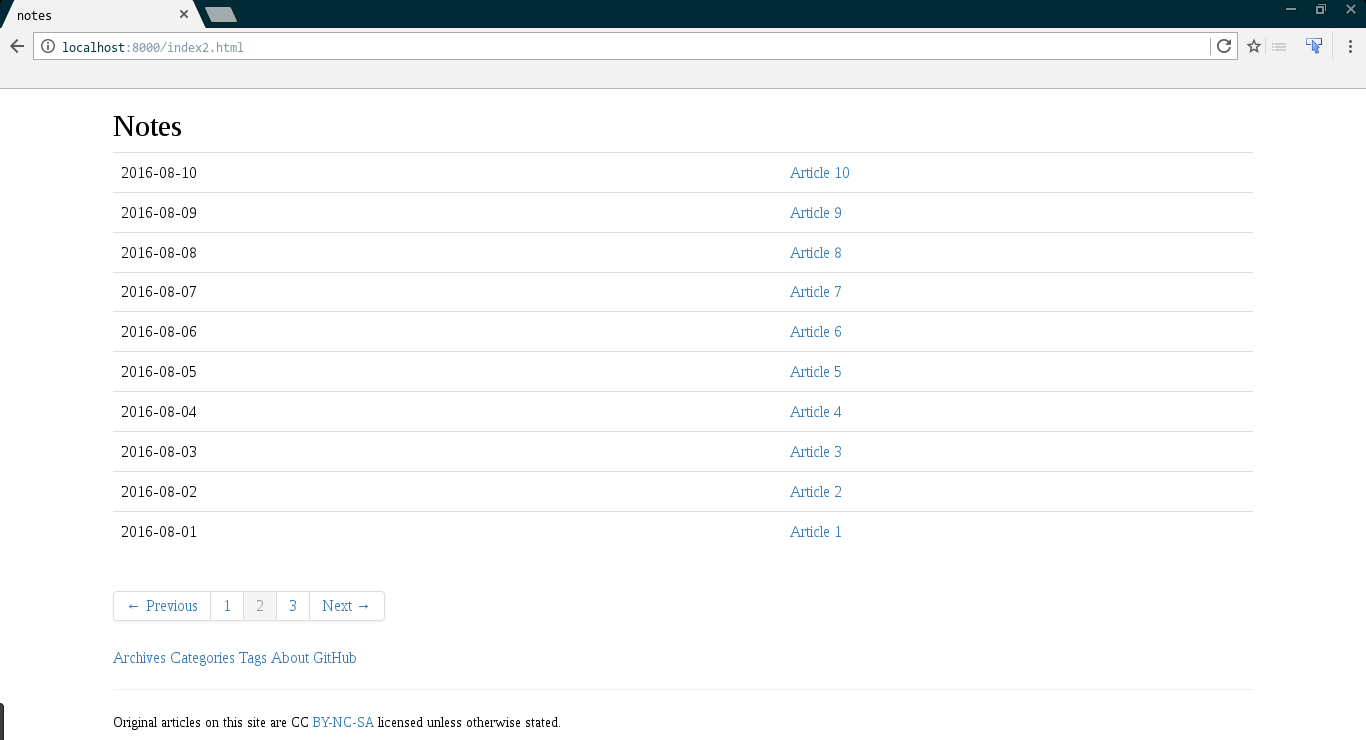
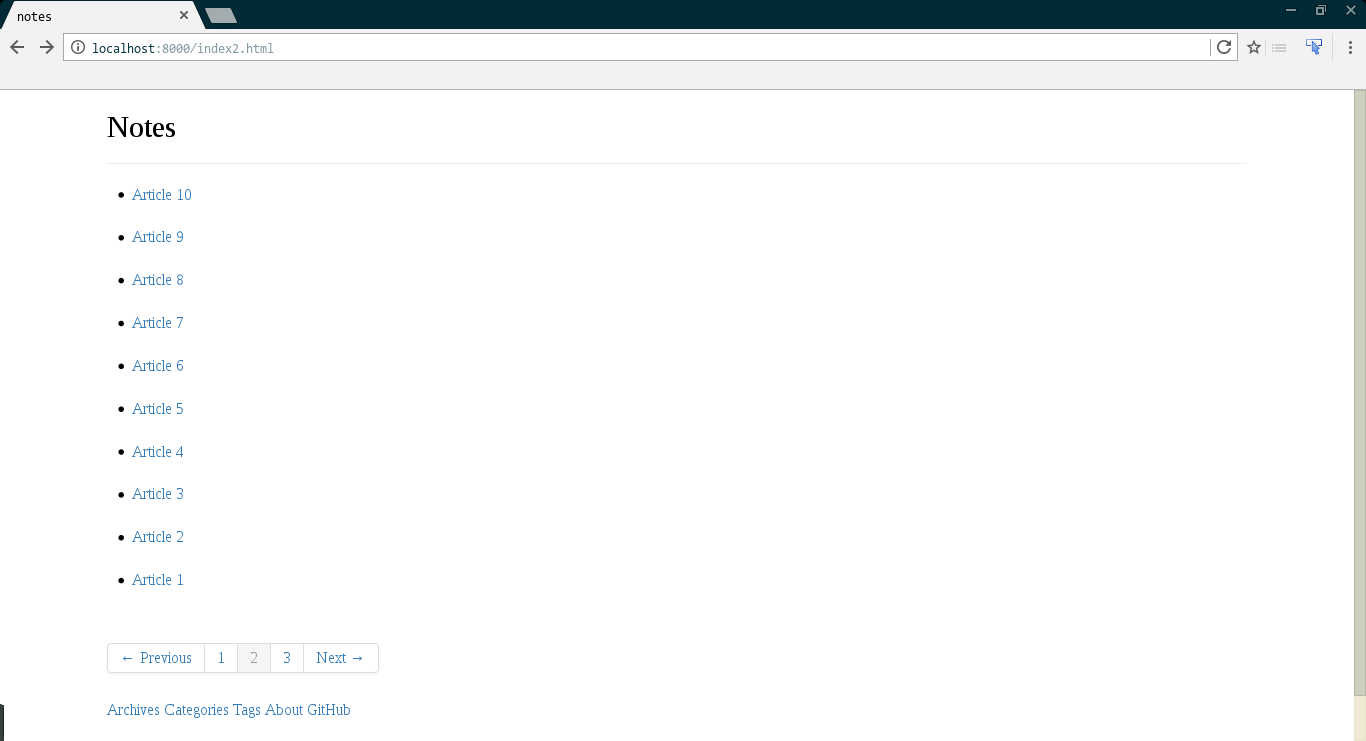
update footer

diff --git a/templates/index.html b/templates/index.html
@@ -4,18 +4,14 @@
 {% block content %}        
 
             <h2>Notes</h2>
+            <hr />
 
-            {% if articles %}
-            <table class="table">
-                <tbody>
+{% if articles %}
+                <ul>
                 {% for article in articles_page.object_list %}        
-                    <tr>
-                    <td><time datetime="{{ article.date.isoformat() }}" itemprop="datePublished">{{ article.locale_date }}</time><td>
-                    <td><a href='{{ SITEURL }}/{{ article.url }}'>{{ article.title }}</a></td>
-                    </tr>
+                    <li><a href='{{ SITEURL }}/{{ article.url }}'>{{ article.title }}</a></li><br />
                 {% endfor %} 
-                </tbody>
-            </table>
+                </ul>
 {% include 'pagination.html' %}
 {% endif %} 
 {% endblock content %}

diff --git a/templates/base.html b/templates/base.html
@@ -39,9 +39,9 @@
 {% endblock %}
 <div class="container">
 	<div class="row">
-		<div class="col-lg-12">
+		<div class="col-lg-12 text-right">
             <hr />
-            <small>Original articles on this site are CC <a href='https://creativecommons.org/licenses/by-nc-sa/4.0/legalcode'>BY-NC-SA</a> licensed unless otherwise stated.</small>
+            Original articles on this site are CC <a href='https://creativecommons.org/licenses/by-nc-sa/4.0/legalcode'>BY-NC-SA</a> licensed unless otherwise stated.
             <!--<a target="_blank" href="https://portal.qiniu.com/signup?code=3ljz8qqvm23wy">-->
                 <!--<img width="32" border="0" alt="qiniu" src="http://oc73cuso6.bkt.clouddn.com/qiniu-55x41.png">-->
             <!--</a>-->
